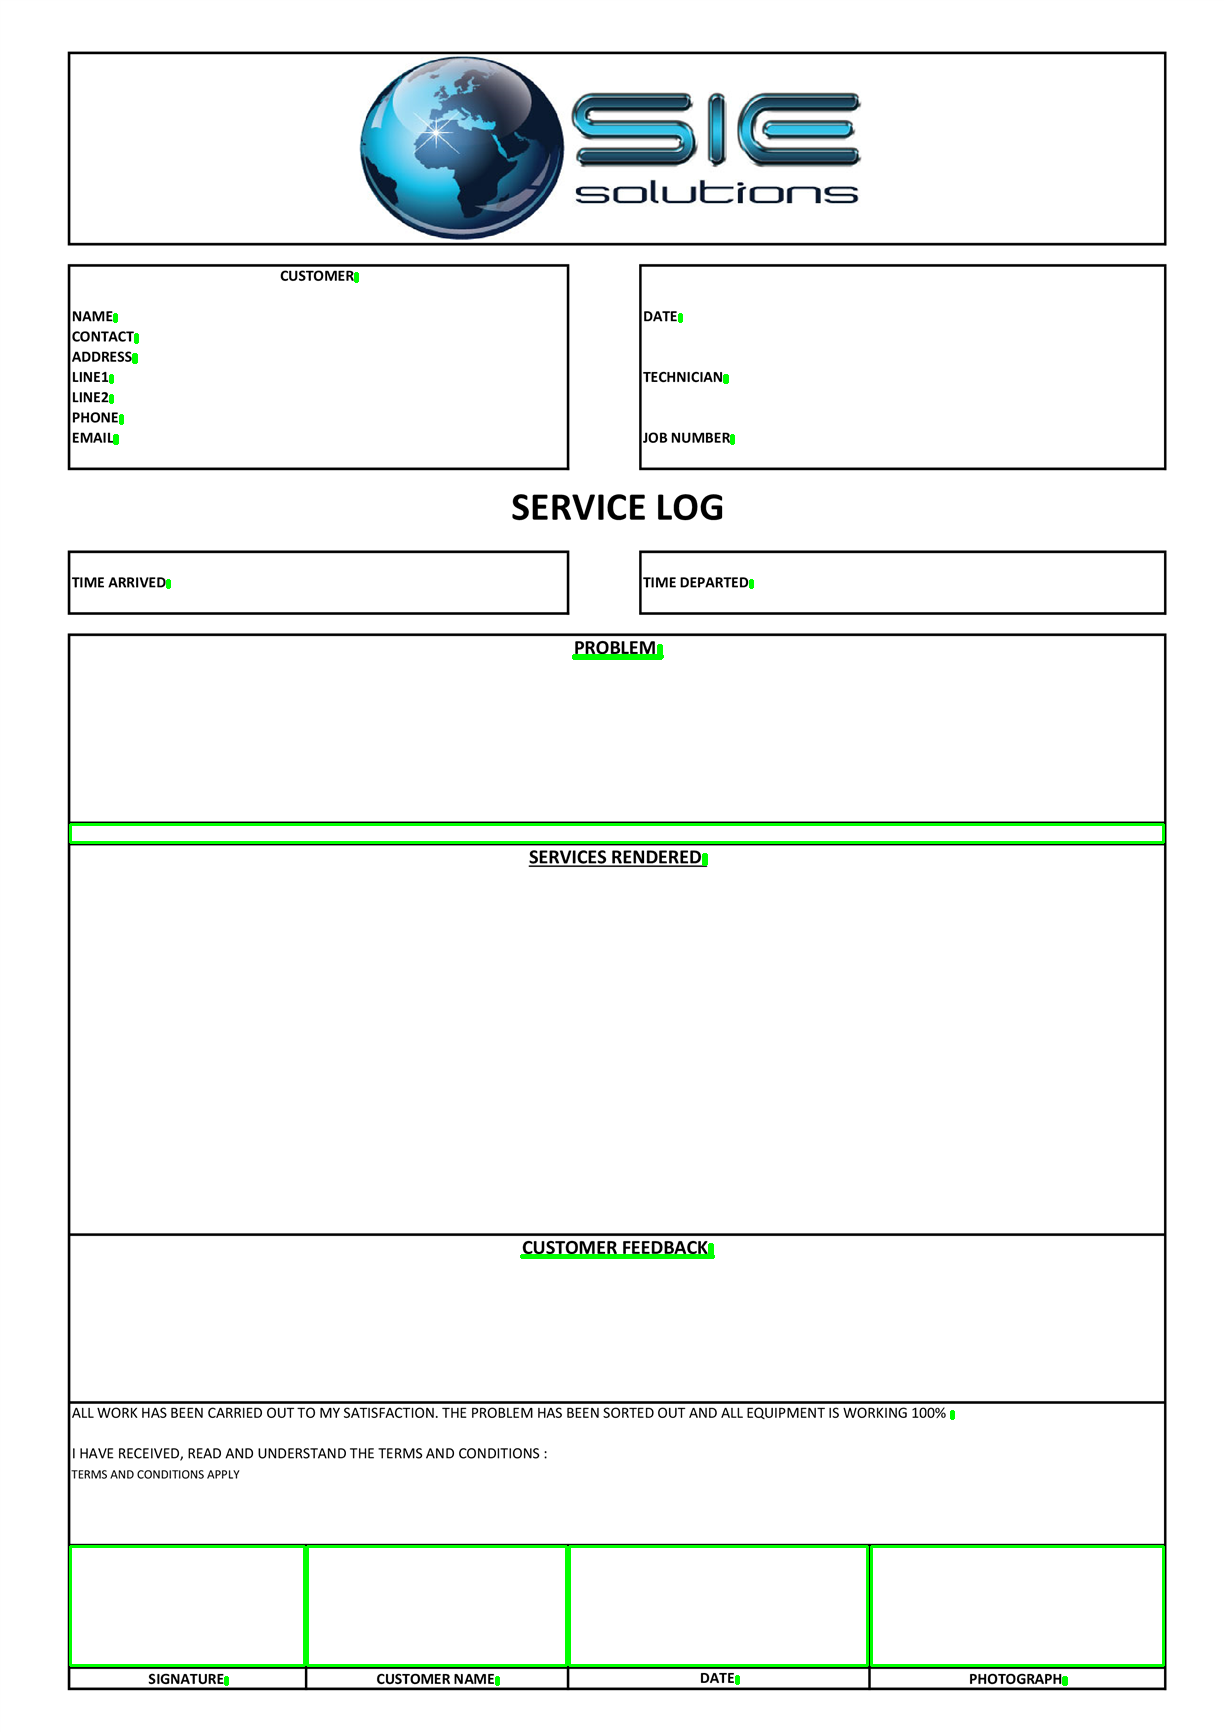
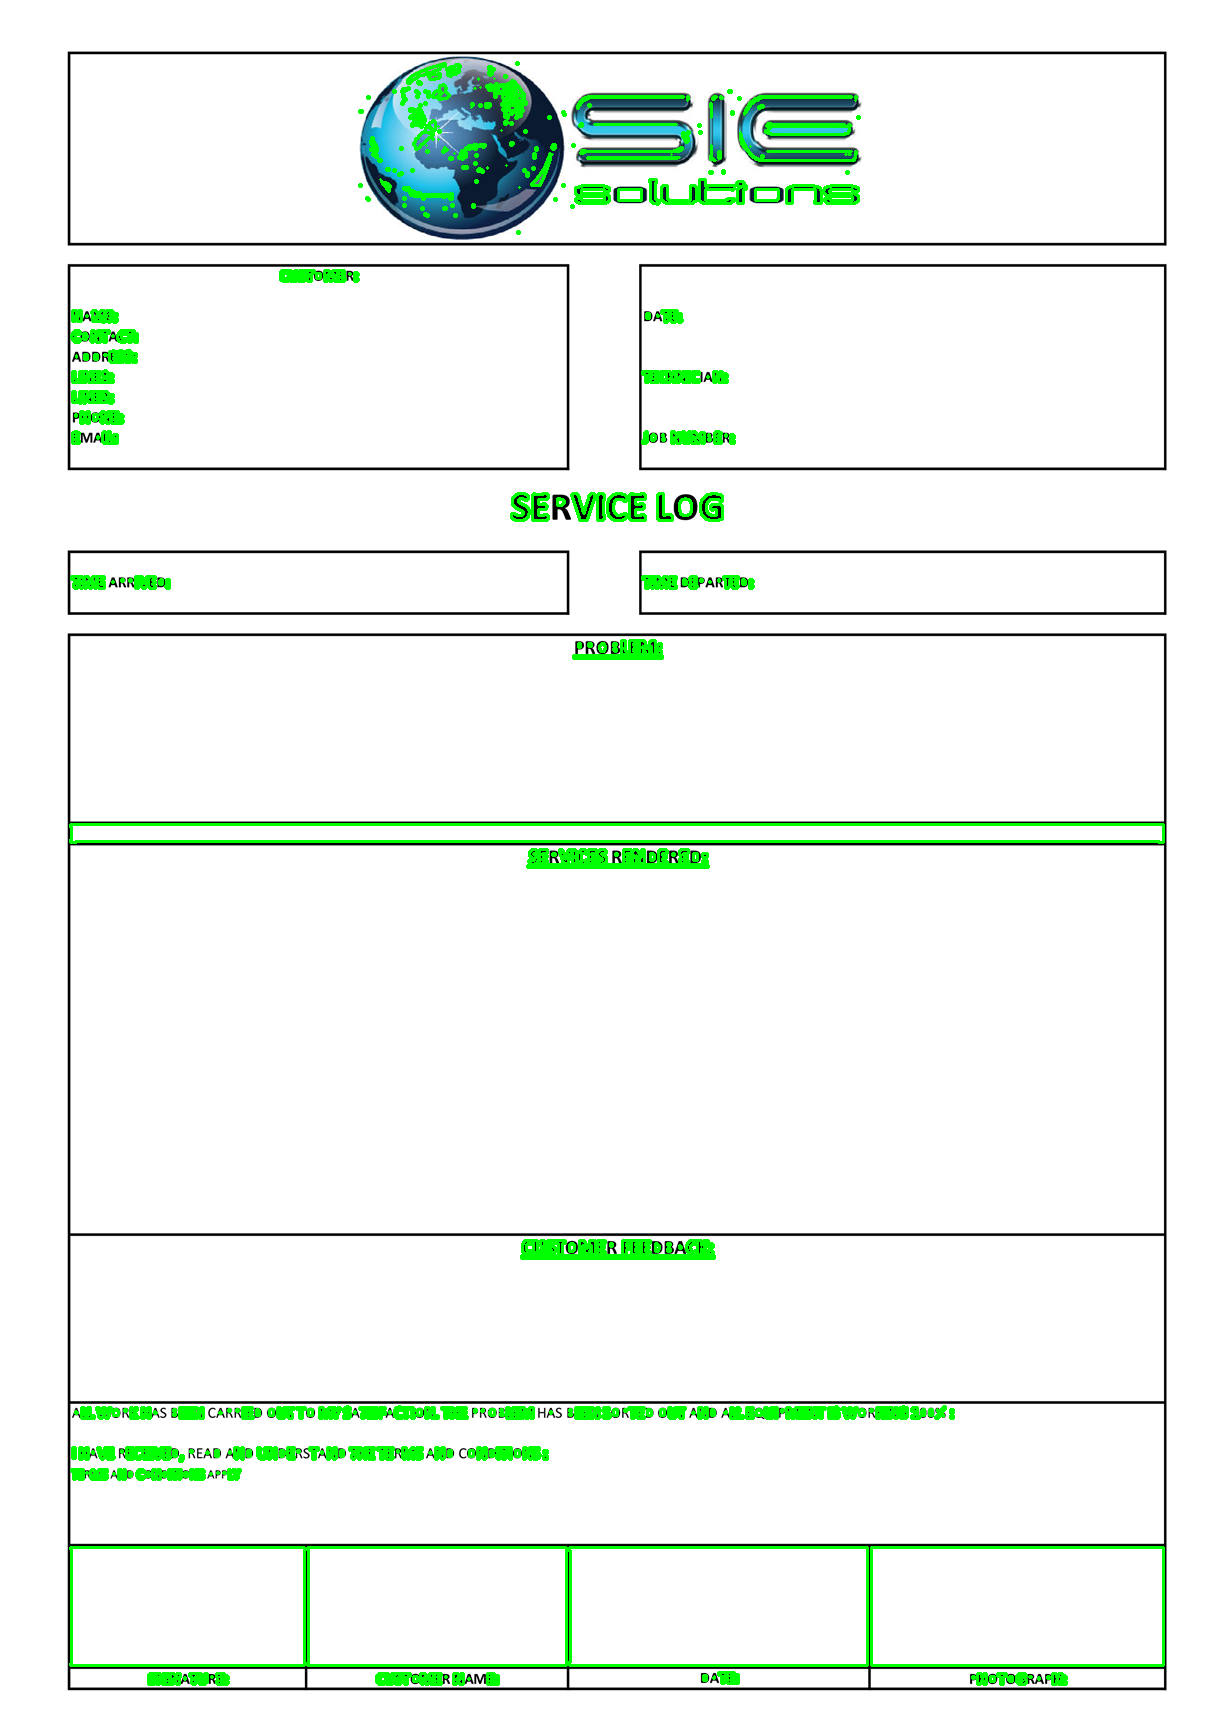
reverted to old method added todos

diff --git a/FormReader/FormReader.py b/FormReader/FormReader.py
@@ -8,6 +8,8 @@ import sys
 class Image_Data:
 
     def __init__(self, imgpath):
+        # TODO: Make image skew detector
+
         self.img_pil = Image.open(imgpath)
         self.img_pil_gray = self.img_pil.convert('L')
         self.img = cv2.imread(imgpath)
@@ -25,17 +27,28 @@ class Image_Data:
         self.wordless_img = cv2.drawContours(self.wordless_img, self.char_array, -1, (255, 255, 255), 2)
         self.imgray = cv2.cvtColor(self.wordless_img, cv2.COLOR_BGR2GRAY)
 
-    def extract_countours(self):
-        ret, thresh = cv2.threshold(self.imgray, 254, 255, 0)
+    def extract_contours(self):
+        thresh = cv2.adaptiveThreshold(self.imgray, 255, cv2.ADAPTIVE_THRESH_GAUSSIAN_C, cv2.THRESH_BINARY, 11, 2)
         self.image, self.contours, self.hierarchy = cv2.findContours(thresh, cv2.RETR_TREE, cv2.CHAIN_APPROX_SIMPLE)
         cont_hierarchy = np.array(zip(self.contours, self.hierarchy[0][:, 2]))
         self.real_contours = cont_hierarchy[cont_hierarchy[:, 1] == -1][:, 0]
         self.real_contours = self.get_array_size()
-        self.real_contours = [contour for contour in self.real_contours if len(contour) <= 10]
+        # self.real_contours = [contour for contour in self.real_contours if len(contour) <= 10]
+
+    def remove_contours_with_chars(self):
+        pass
+        # TODO: create max/min character array to see if current contours include characters
+            # TODO: If the contour contains characters, they must be "NAME", "DATE", or "SIGNATURE"
+                # TODO: After that, split up contours into wide white-spaces
+
+    def add_circles_and_squares(self):
+        pass
+        # TODO: add circles and squares
 
     def add_contours(self):
         self.final_img = cv2.drawContours(cv2.imread(self.imgpath), self.real_contours, -1, (0, 255, 0), 2)
-        self.final_img = cv2.drawContours(self.final_img, self.special_char_array, -1, (0, 255, 0), 2)
+        self.final_img = cv2.drawContours(self.final_img, self.special_char_array, -1, (0, 0, 255), 2)
+        self.final_img = cv2.drawContours(self.final_img, self.char_array, -1, (255, 0, 0), 2)
 
     def get_wordless_img(self):
         cv2.imwrite('wordless_' + sys.argv[1], self.wordless_img)
@@ -80,7 +93,3 @@ class Image_Data:
             elif np.abs(min_y - max_y) < 5 and np.abs(min_x - max_x) > 50:
                 contours_to_keep.append(i)
         return self.real_contours[contours_to_keep]
-
-    # TODO: remove fields that have > 10% text OR JUST keep fields with "DATE" "NAME", etc.
-    # TODO: add circles and squares
-    # TODO: fix skew on scanned images

diff --git a/FormReader/script.py b/FormReader/script.py
@@ -7,7 +7,8 @@ imgpath = str(sys.argv[1])
 test = Image_Data(imgpath)
 test.extract_chars()
 test.remove_chars()
-test.extract_countours()
+test.extract_contours()
+# test.text_from_contours()
 test.add_contours()
 test.get_final_img()
 print 'end time %s' % (datetime.datetime.now())
